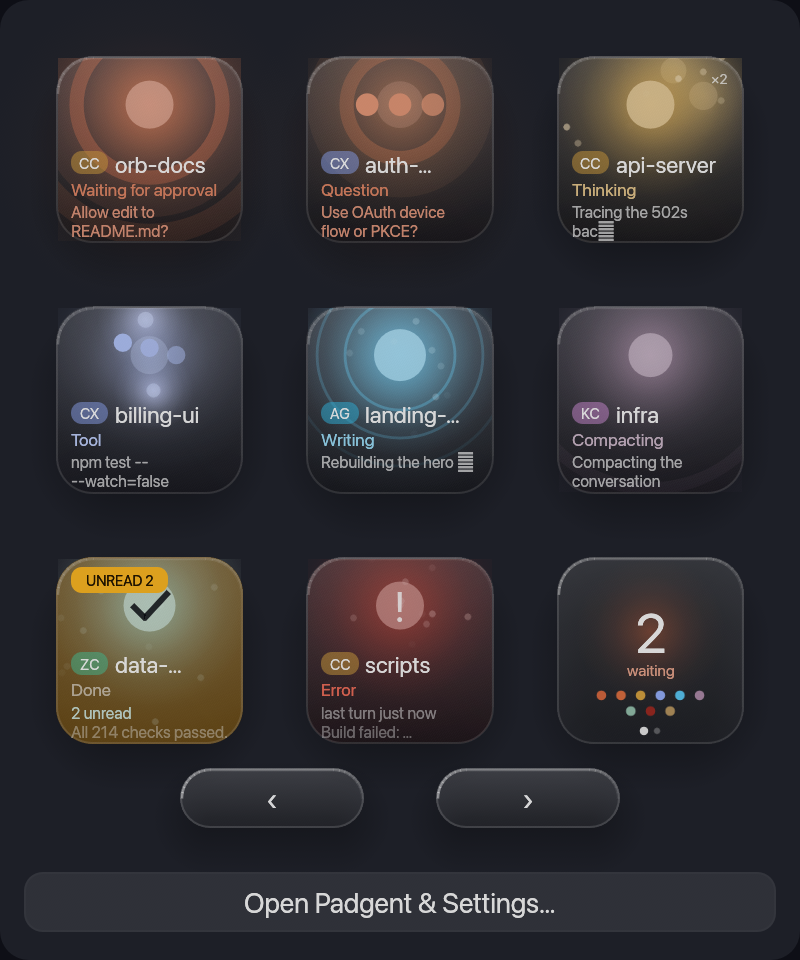
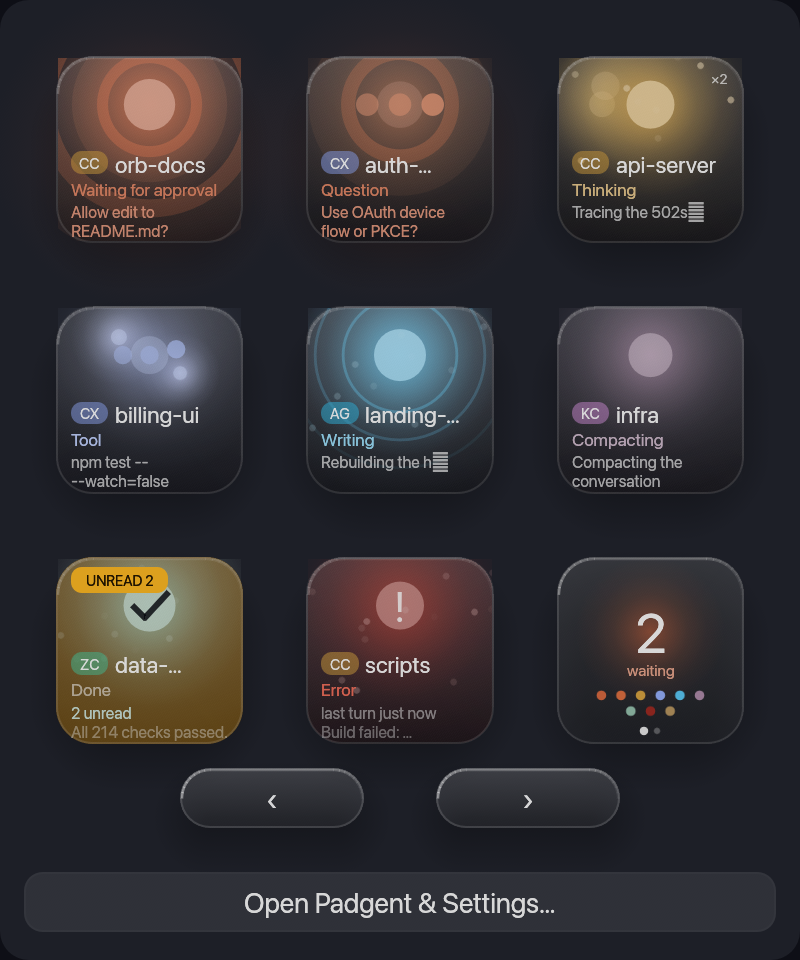
Keep archived conversations accessible at the end of keypad pages

diff --git a/src/model.rs b/src/model.rs
@@ -18,7 +18,7 @@ pub const HUB_KEY: usize = 8;
 pub const SESSION_KEYS_PER_PAGE: usize = 8;
 /// Idle sessions older than this stay available, but start no earlier than page two.
 pub const IDLE_SECOND_PAGE_AFTER_S: f64 = 30.0 * 60.0;
-/// Hold a session key to hide it locally until work resumes.
+/// Hold a session key to move it to the end until work resumes.
 pub const ARCHIVE_HOLD_S: f64 = 0.6;
 pub const HAND_BACK_HOLD_S: f64 = 1.5;
 // Session timings (SessionTracker.Environment.live 0x10075703c → SessionTimings, applied by
@@ -710,7 +710,7 @@ pub struct Session {
     pub pid: i32,
     /// Replies not yet read in the agent's own app (Codex read receipts).
     pub unread: u32,
-    /// Locally hidden until a new turn or resumed work.
+    /// Placed after normal sessions until a new turn or resumed work.
     pub archived: bool,
     /// Text waiting for the current one's 1.5 s dwell to pass.
     pub pending_text: Option<String>,
@@ -1159,7 +1159,7 @@ impl Core {
                     if let Some(s) = self.sessions.iter_mut().find(|s| s.key() == key) {
                         s.archived = true;
                         self.touch();
-                        self.notify("Archived until the conversation resumes work.");
+                        self.notify("Moved to the end until the conversation resumes work.");
                     }
                 }
             }
@@ -1212,10 +1212,18 @@ impl Core {
             s.activity.group() != Group::Idle || t - s.since <= IDLE_SECOND_PAGE_AFTER_S
         });
         let mut slots: Vec<Option<&Session>> = recent.into_iter().map(Some).collect();
-        if !old_idle.is_empty() && slots.len() < SESSION_KEYS_PER_PAGE {
+        // Archived sessions remain reachable after all normal sessions, including those
+        // outside the recency window. Never fill the first page's reserved holes with them.
+        let mut archived: Vec<&Session> = self.order.iter()
+            .filter_map(|key| self.sessions.iter().find(|s| &s.key() == key))
+            .filter(|s| s.archived && self.agent_enabled(&s.agent))
+            .collect();
+        archived.extend(self.sessions.iter().filter(|s| s.archived && self.agent_enabled(&s.agent) && !self.order.contains(&s.key())));
+        if (!old_idle.is_empty() || !archived.is_empty()) && slots.len() < SESSION_KEYS_PER_PAGE {
             slots.resize(SESSION_KEYS_PER_PAGE, None);
         }
         slots.extend(old_idle.into_iter().map(Some));
+        slots.extend(archived.into_iter().map(Some));
         slots
     }
 
@@ -1446,7 +1454,7 @@ impl Core {
                 if let Some(s) = self.sessions.iter_mut().find(|s| s.key() == *key) {
                     s.archived = true;
                     self.touch();
-                    self.notify("Archived until the conversation resumes work.");
+                    self.notify("Moved to the end until the conversation resumes work.");
                 }
             }
         }
@@ -1454,7 +1462,7 @@ impl Core {
         match target {
             Some(KeyPressTarget::Hub) => {
                 let slots = self.keypad_slots();
-                if let Some(pos) = slots.iter().position(|s| s.is_some_and(|s| s.activity.group() == Group::Waiting)) {
+                if let Some(pos) = slots.iter().position(|s| s.is_some_and(|s| !s.archived && s.activity.group() == Group::Waiting)) {
                     self.page = pos / SESSION_KEYS_PER_PAGE;
                 } else { self.actions.push(Action::ShowWindow); }
                 self.touch();
@@ -1800,6 +1808,58 @@ mod tests {
         });
         assert!(!core.sessions[0].archived);
         assert_eq!(core.visible()[0].id, "archived");
+    }
+
+    #[test]
+    fn archived_sessions_follow_old_idle_tiles_and_return_to_normal_order_on_resume() {
+        let mut settings = Settings::default();
+        settings.recency_minutes = 240;
+        let mut core = Core::new(settings);
+        core.in_control = true;
+        add_test_session(&mut core, "active", "thinking");
+        add_test_session(&mut core, "old-idle", "idle");
+        add_test_session(&mut core, "archived-waiting", "waiting_question");
+        core.sessions.iter_mut().find(|s| s.id == "old-idle").unwrap().since = now() - IDLE_SECOND_PAGE_AFTER_S - 60.0;
+        core.sessions.iter_mut().find(|s| s.id == "archived-waiting").unwrap().archived = true;
+        core.resort();
+
+        let slots = core.keypad_slots_at(now());
+        assert_eq!(slots[0].unwrap().id, "active");
+        assert!(slots[1..SESSION_KEYS_PER_PAGE].iter().all(Option::is_none), "archives must not consume reserved page-one holes");
+        assert_eq!(slots[SESSION_KEYS_PER_PAGE].unwrap().id, "old-idle");
+        assert_eq!(slots[SESSION_KEYS_PER_PAGE + 1].unwrap().id, "archived-waiting");
+        assert_eq!(core.waiting_count(), 0, "archived waiting sessions are absent from normal counts");
+
+        core.page = 1;
+        assert!(matches!(&core.faces()[1], KeyFace::Session(face) if face.key == "codex:archived-waiting"));
+        core.key_down(1);
+        core.key_up(1);
+        assert!(matches!(core.actions.as_slice(), [Action::Open { agent, session }] if agent == "codex" && session == "archived-waiting"));
+
+        core.apply(Incoming {
+            agent: "codex".into(), event: None,
+            body: serde_json::json!({"session":"archived-waiting", "state":"thinking"}),
+        });
+        assert!(!core.sessions.iter().find(|s| s.id == "archived-waiting").unwrap().archived);
+        assert_eq!(core.visible()[0].id, "archived-waiting", "resumed work returns to the ordinary recent ordering");
+        assert_eq!(core.keypad_slots_at(now())[0].unwrap().id, "archived-waiting");
+    }
+
+    #[test]
+    fn archived_waiting_session_does_not_drive_hub_navigation() {
+        let mut core = Core::new(Settings::default());
+        core.in_control = true;
+        add_test_session(&mut core, "active", "thinking");
+        add_test_session(&mut core, "archived-waiting", "waiting_question");
+        core.sessions.iter_mut().find(|s| s.id == "archived-waiting").unwrap().archived = true;
+        core.resort();
+
+        assert_eq!(core.waiting_count(), 0);
+        assert!(matches!(&core.faces()[HUB_KEY], KeyFace::Hub(hub) if hub.waiting == 0));
+        core.key_down(HUB_KEY);
+        core.key_up(HUB_KEY);
+        assert_eq!(core.page, 0, "the archived waiting tile must not redirect to its later page");
+        assert!(matches!(core.actions.as_slice(), [Action::ShowWindow]));
     }
 
     #[test]

diff --git a/src/main.rs b/src/main.rs
@@ -646,7 +646,7 @@ impl App {
         p.text(
             pos2(dev.center().x, dev.bottom() + 16.0),
             Align2::CENTER_CENTER,
-            "Hold a key 0.6 s to archive its conversation until work resumes · ‹ › page · hold both 1.5 s to hand back to Options+",
+            "Hold a key 0.6 s to move its conversation to the end until work resumes · ‹ › page · hold both 1.5 s to hand back to Options+",
             FontId::proportional(11.5),
             white(0.45),
         );
@@ -1228,7 +1228,7 @@ impl App {
                 ui.add(egui::TextEdit::singleline(&mut s.empty_key_url).hint_text("https://… or app link").desired_width(300.0));
             });
             hint(ui, "Optional. Pressing a key with no session opens this link on this computer. Leave blank to do nothing.");
-            hint(ui, "Hold a session key for 0.6 s to archive it until the conversation resumes work.");
+            hint(ui, "Hold a session key for 0.6 s to move it to the end until the conversation resumes work.");
         });
         if format!("{:?}", c.settings) != before {
             c.revision += 1;

diff --git a/README.md b/README.md
@@ -16,7 +16,7 @@ and on screen as a Liquid Glass keypad. Written in Rust.
   desktop apps. Add any other agent by importing an `.orbagent.json` file, or follow any desktop
   app's conversations through macOS Accessibility (no logins in Padgent).
 - **Keypad:** eight session keys and a hub key that counts what's waiting; previous/next page
-  buttons; hold a key 0.6 s to archive its conversation until work resumes; hold both page buttons 1.5 s to hand the keypad
+  buttons; hold a key 0.6 s to move its conversation to the end until work resumes; hold both page buttons 1.5 s to hand the keypad
   back to Logi Options+. Each key's light follows the session's state (thinking, tool, writing,
   waiting for approval or an answer, done, error, compacting). Sessions idle for more than
   30 minutes move to page 2 or later, leaving page 1 for active and recent sessions.

diff --git a/MECHANICS.md b/MECHANICS.md
@@ -8,7 +8,7 @@ per-agent preferences remain in the existing AgentPad configuration directory fo
 
 Sessions can come from local agent records, hooks, or desktop apps followed through macOS
 Accessibility. The application displays each session’s activity, age and latest message.
-Tapping a key opens its conversation or terminal; holding a key for 0.6 seconds archives it locally until work resumes. Archives are kept in memory
+Tapping a key opens its conversation or terminal; holding a key for 0.6 seconds moves it to the end of the keypad pages until work resumes. Archives are kept in memory
 and reset when Padgent restarts. The two page buttons navigate pages;
 holding both for 1.5 seconds releases the keypad to Logi Options+.
 
